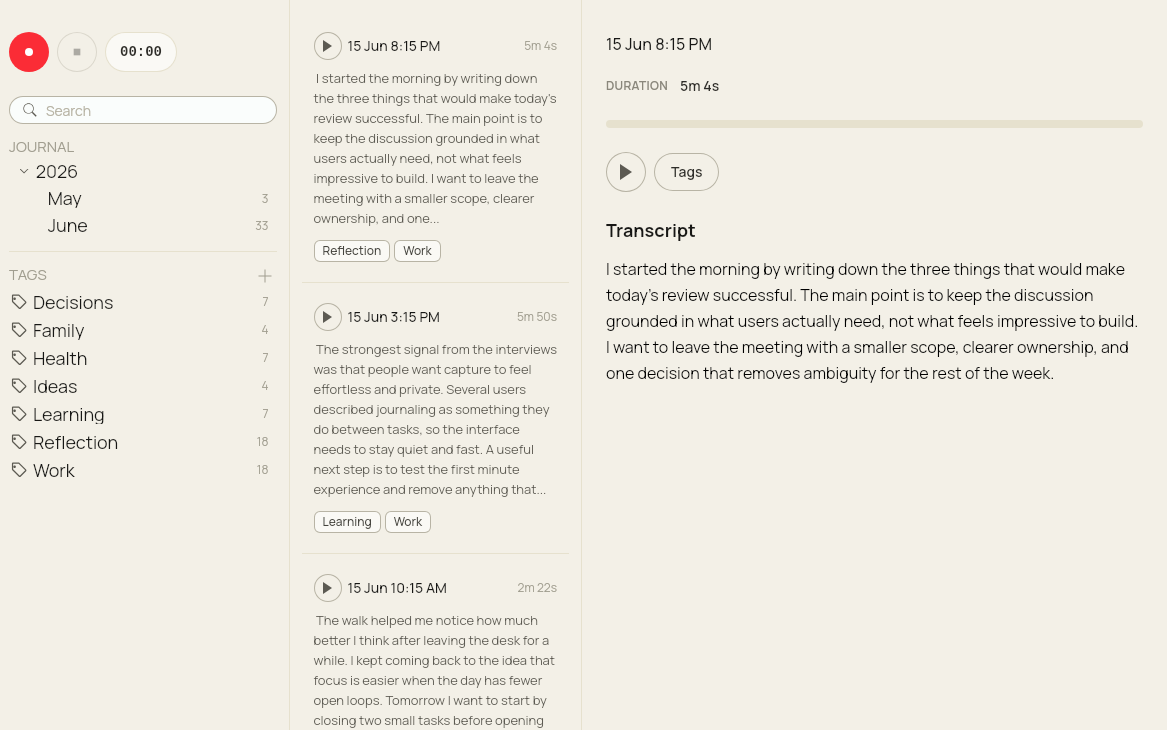
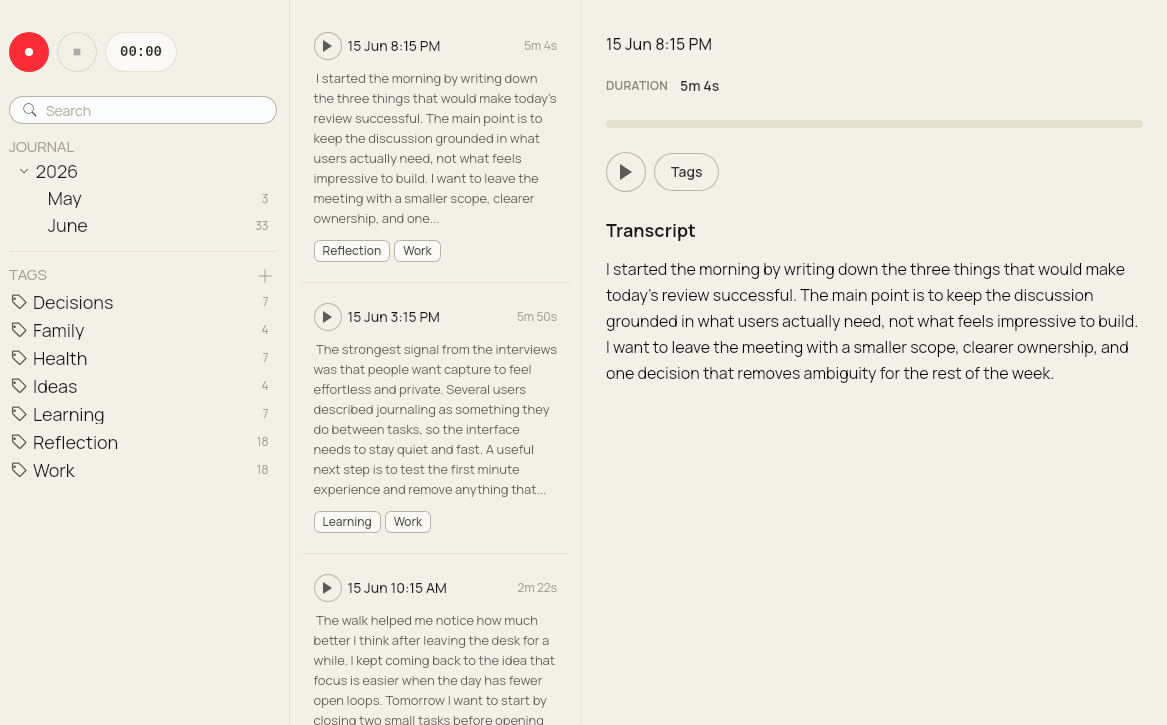
update README and license

diff --git a/README.md b/README.md
@@ -6,6 +6,8 @@ Journica is a local-first desktop app for recording spoken notes, transcribing t
 
 ## Preview
 
+![Journica hero](docs/assets/journica-hero.svg)
+
 ![Journica app overview](docs/assets/app-overview.png)
 
 ## Why Journica